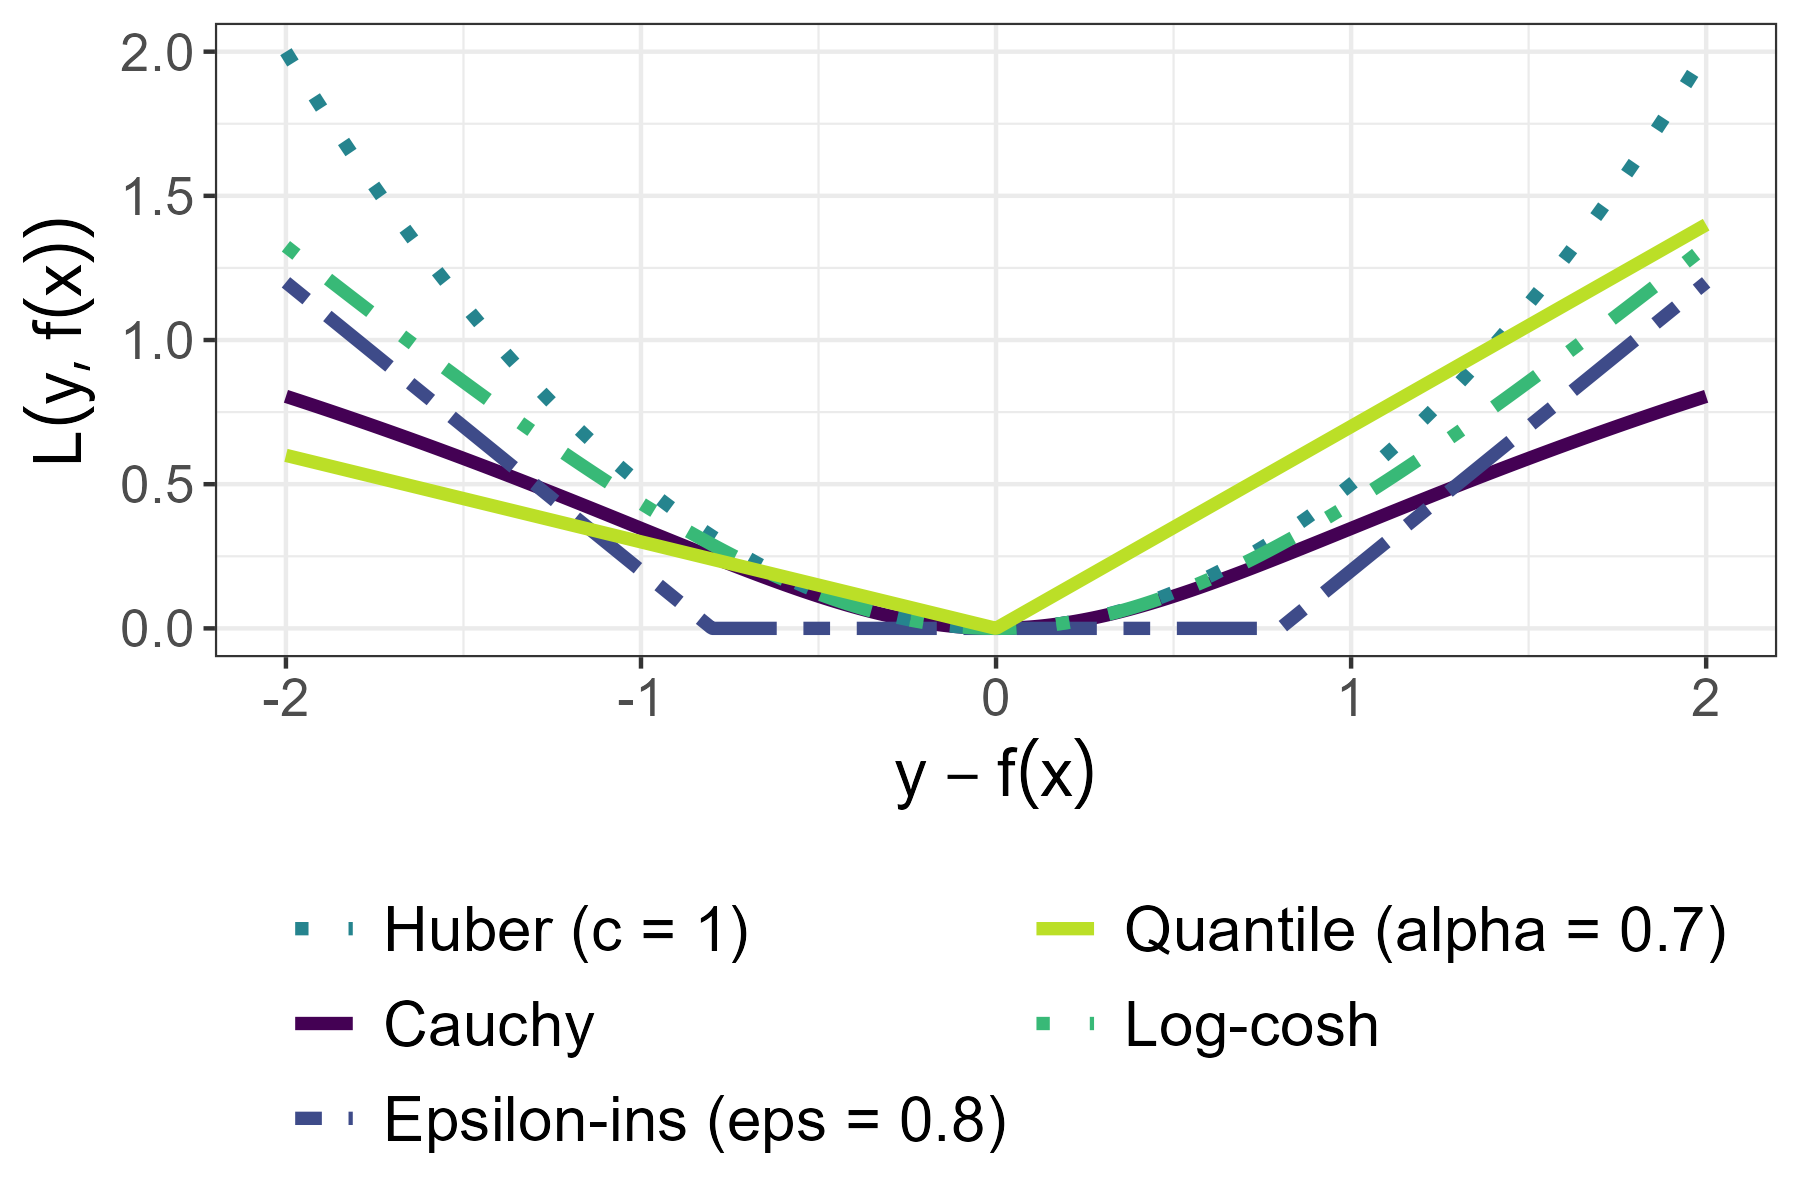
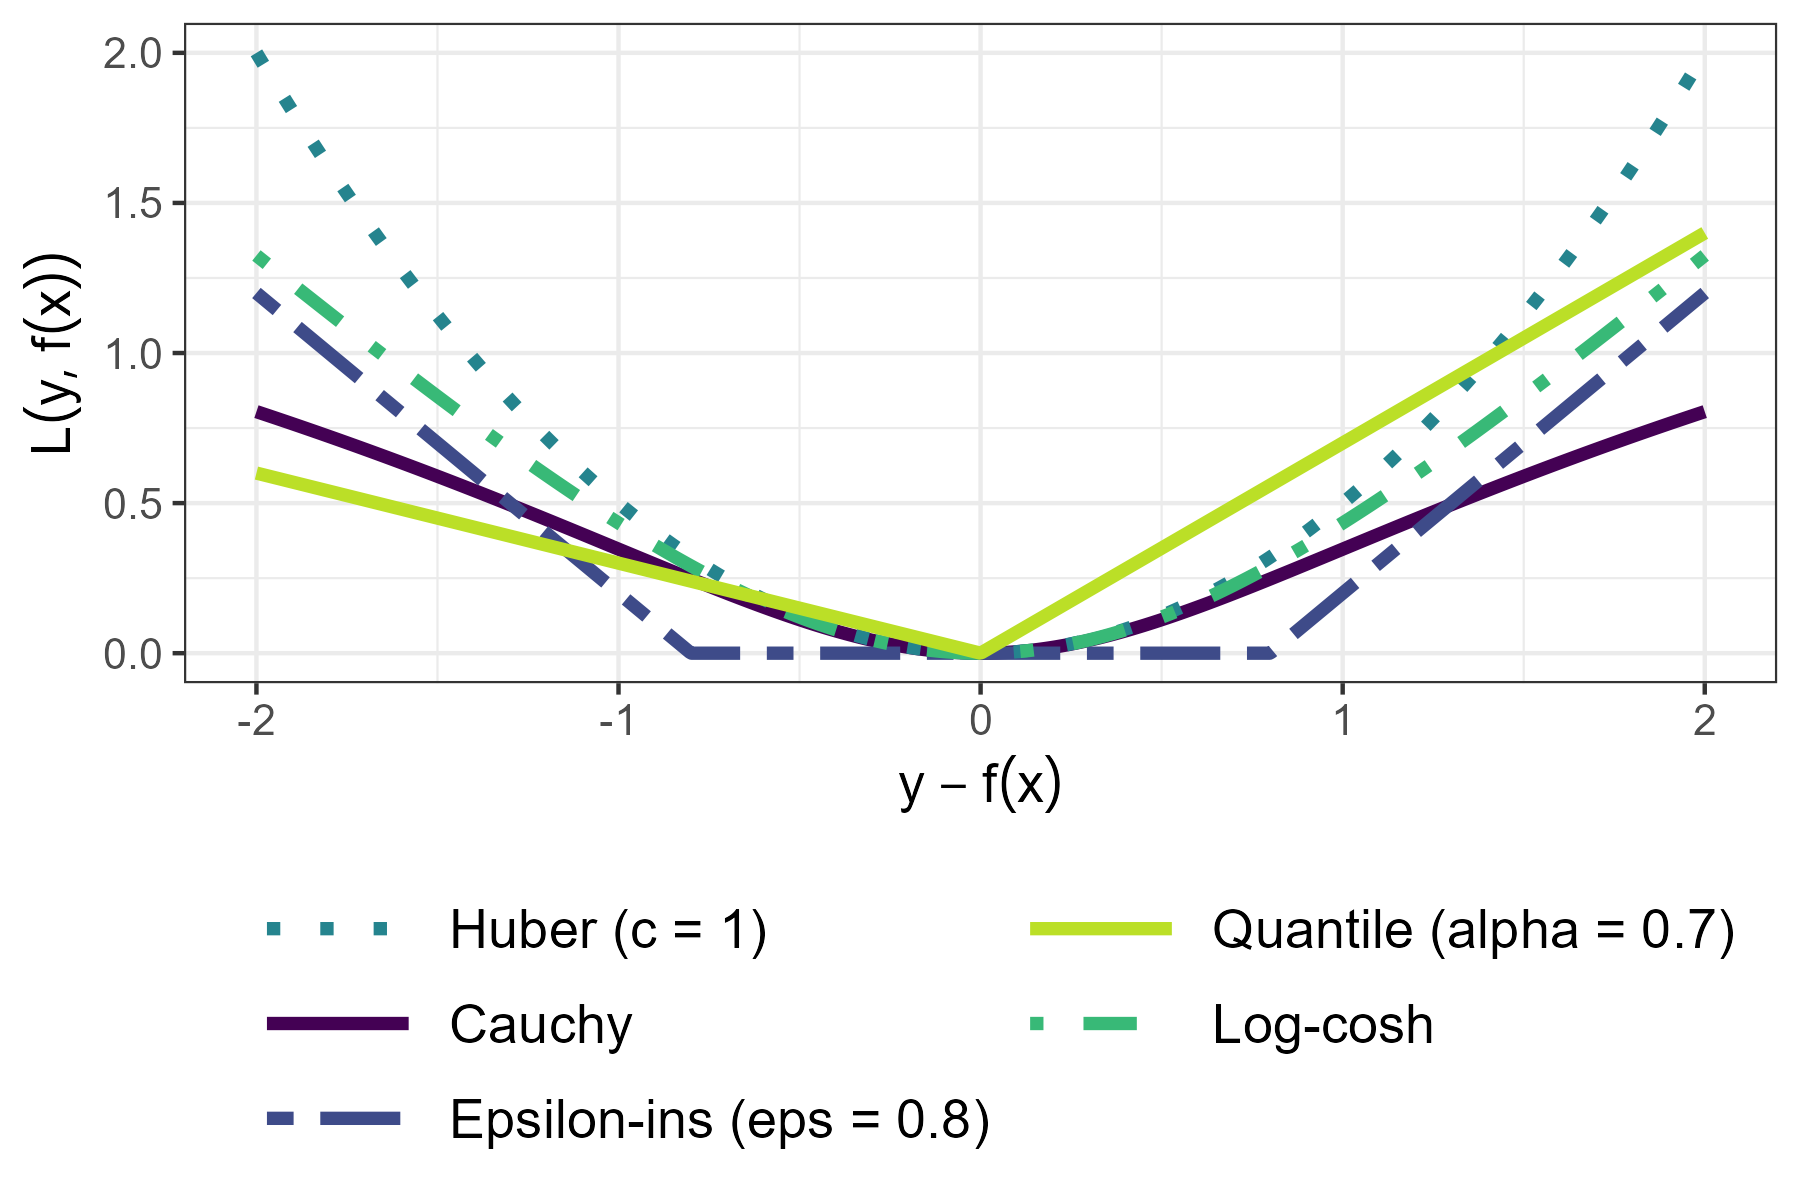
fixed linetypes in legend for loss plots and telephone data

diff --git a/slides/advriskmin/slides-advriskmin-classification-bernoulli.tex b/slides/advriskmin/slides-advriskmin-classification-bernoulli.tex
@@ -32,19 +32,24 @@
 }
 
 \begin{vbframe}{On probs}
-
+\begin{small}
 Likelihood of Bernoulli RV:
 $$
 \LLt = \prodin \pixit^{\yi} \left(1-\pixit\right)^{1-\yi} \,\,, \, y \in \setzo
 $$
-
 Transform into NLL:
 $$- \loglt = \sumin - \yi \log\left(\pixit\right) - \left(1-\yi\right)\log\left(1-\pixit\right)$$
 
 Bernoulli loss: loss on single sample
-  $$
-    \Lpixy = - y \log \left(\pix\right) - (1 - y) \log \left(1 - \pix\right)\,\,, \, y \in \setzo 
-  $$
+$$
+\Lpixy = - y \log \left(\pix\right) - (1 - y) \log \left(1 - \pix\right)\,\,, \, y \in \setzo 
+$$ 
+\end{small}
+
+
+\begin{center}
+\includegraphics[width=0.38\textwidth]{figure/bernoulli_prob.png}    
+\end{center}
 
 \end{vbframe}
 
@@ -57,11 +62,13 @@ Bernoulli loss: loss on single sample
 \end{itemize}
 $$\Lxy = - y \cdot \fx + \log(1 + \exp(\fx)) \quad \text{for } y \in \setzo$$
 
+\lz
+
 \begin{center}
 % \includegraphics[width = 10cm ]{figure_man/bernoulli-loss.png} \\
 \begin{figure}
-  \subfloat{\includegraphics[width=0.45\textwidth]{figure/bernoulli_prob.png}}
-  \subfloat{\includegraphics[width=0.45\textwidth]{figure/logistic.png}}\\
+  \subfloat{\includegraphics[width=0.45\textwidth]{figure/logistic.png}}
+  \includegraphics[width=0.45\textwidth]{figure/bernoulli_logloss.png}\\
 \end{figure}
 \end{center}
 
@@ -134,11 +141,11 @@ For fixed $\xv$, minimize inner part pointwise, use $c$ for best value:
 	\includegraphics[width=0.7\textwidth]{figure/logistic_inverse.png}
 \end{minipage}
 
-\begin{itemizeS}
+\begin{itemizeM}
     \item Undefined for $\eta(\xv) \in \setzo$
     \item Predicts smooth curve increasing in $\P(y=1~|~\xv = \xtil)$ otherwise
     \item Equals $0$ when $\P(y=1~|~\xv = \xtil) = 0.5$
-\end{itemizeS}
+\end{itemizeM}
 
 
 \framebreak 
